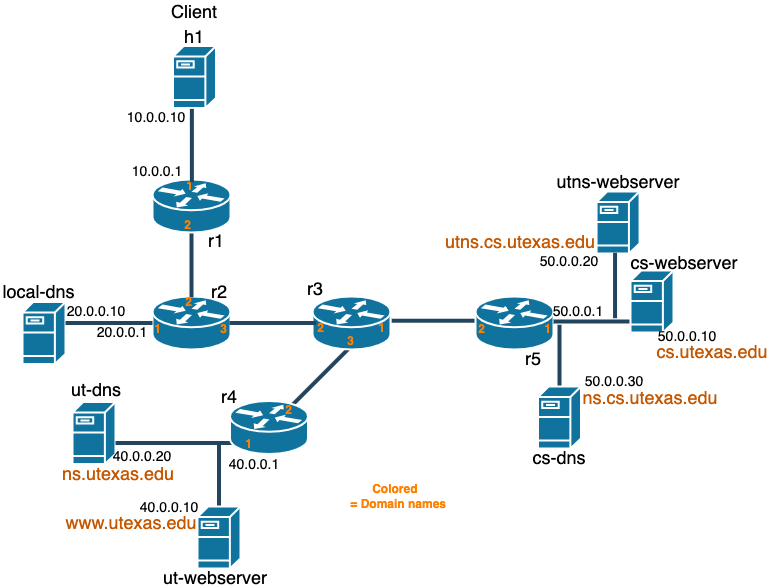
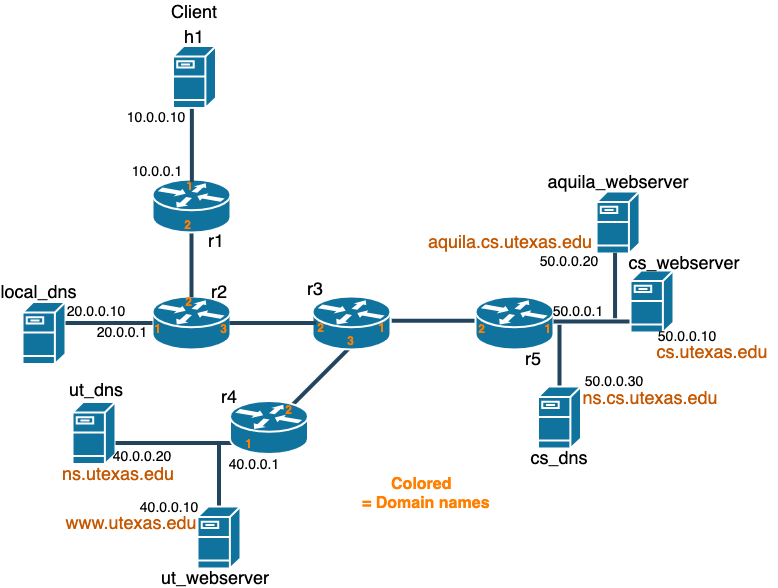
[A5] Update figures and instructions

diff --git a/_pages/5_dns.md b/_pages/5_dns.md
@@ -12,21 +12,22 @@ To get the skeleton code, create a **private** repository by clicking `Use this 
 #### Overview
 In this assignment, you will implement DNS servers that enable a client to access nodes with domains instead of raw IP addresses. Your task is to complete the implementation of DNS nameservers for the `utexas.edu` zone and `cs.utexas.edu` zone (Part 1) and a local DNS server that can handle the query iteratively (Part 2). We provide you with a DNS library that does tedious jobs such as message parsing on behalf of you. Refer to the Appendix for more details on the library. For simplicity, you can assume there are no incoming queries other than `A, AAAA, NS` queries.
 
-The overview for this assignment is depicted below.    
-![a5_overview]({{site.baseurl}}/assets/img/assignments/assignment5/A5_overview.png)   
 You will run this experiment on top of Kathara. The Kathara topology is depicted below. The Kathara lab is located in the `[a5_directory]/labs/dns`.    
 ![a5_topology]({{site.baseurl}}/assets/img/assignments/assignment5/A5_topology.png)   
 
 ### Part 1: Writing DNS servers
 Your task is to complete `ut-dns.c` and `cs-dns.c` in the `[a5_directory]/labs/dns/shared/src` directory. `ut-dns.c` and `cs-dns.c` are the nameservers for `utexas.edu` and `cs.utexas.edu`, respectively. The implementation of the two servers should be almost the same except for the DNS records they store. We recommend you implement `ut-dns.c` first, copy and paste it to `cs-dns.c`, and change it a bit. Note that they are **NOT** recursive nor iterative DNS servers, so their responses are only based on their own DNS records.
 
+The overview for this part of the assignment is depicted below. 
+![a5_p1]({{site.baseurl}}/assets/img/assignments/assignment5/A5_P1.png)   
+
 #### Specification
 You can find the step-by-step specifications in the starter codes as well.
 * The servers should receive a message on top of UDP. Note that a UDP server doesn't have to `listen()` and `accept()` since it is connectionless, unlike TCP (what we did in A1). Also, the UDP server should use `sendto()`/`recvfrom()` to set/get a client's address along with sending/receiving a message.
-* Initialize a server-wide context (e.g., DNS records) using TDNSInit(). The context will be used for future DNS-related operations such as searching for a DNS entry.
-* Create a zone using `TDNSCreateZone` and add entries to the server `TDNSAddRecord`. You should be able to infer the contents of entries from the comments in the source code and the topology figure.
+* Initialize a server-wide context (e.g., DNS records) using TDNSInit(). The context will be used for future DNS-related operations such as searching for a DNS record.
+* Create a zone using `TDNSCreateZone` and add records to the server `TDNSAddRecord`. You should be able to infer the contents of records from the comments in the source code and the topology figure.
 * Receive a message continuously and parse it using `TDNSParseMsg()`.
-* If the received message is a query for A, AAAA, or NS, find the corresponding entry using `TDNSFind()` and return the response. Ignore all the other messages.
+* If the received message is a query for A, AAAA, or NS, find the corresponding record using `TDNSFind()` and return the response. Ignore all the other messages.
 
 #### Test your implementation
 1. Compile your code with `$ make` in the lab's shared directory (`[a5_directory]/labs/dns/shared`). The compiled binary would be in the `[a5_directory]/labs/dns/shared/bin` directory.
@@ -43,25 +44,27 @@ For testing `cs-dns.c`,
 `$ dig @40.0.0.20 A www.utexas.edu`      
 `$ dig @40.0.0.20 A thisshouldfail.utexas.edu`     
 `$ dig @40.0.0.20 A cs.utexas.edu`     
-`$ dig @40.0.0.20 A utns.cs.utexas.edu`     
+`$ dig @40.0.0.20 A aquila.cs.utexas.edu`     
 * For testing `cs-dns.c`, run below on `h1`.   
 `$ dig @50.0.0.30 A cs.utexas.edu`     
-`$ dig @50.0.0.30 A utns.cs.utexas.edu`     
+`$ dig @50.0.0.30 A aquila.cs.utexas.edu`     
 `$ dig @40.0.0.20 A thisshouldfail.cs.utexas.edu`     
 
 ### Part 2: An Iterative Local DNS Server
-Your task is to complete `local-dns.c` in the `[a5_directory]/labs/dns/shared/src` directory. `local-dns.c` is a default nameserver for the on-campus network. Note that it is an iterative DNS server, so its response should be always an answer or error. If it receives a DNS record that indicates delegation (referral), it should resolve a query iteratively. 
+Your task is to complete `local-dns.c` in the `[a5_directory]/labs/dns/shared/src` directory. `local-dns.c` is a default nameserver for the on-campus network. Note that it is an iterative DNS server, so its response should be always an answer or error. If it receives a DNS record that indicates delegation (referral), it should resolve a query iteratively.
+The below figure is an example of an iterative query resolution that is possible in our setup.
+![a5_p2]({{site.baseurl}}/assets/img/assignments/assignment5/A5_P2.png)    
 
 #### Specification
 You can find the step-by-step specifications in the source code as well.
 * The servers should receive a message on top of UDP.
-* Initialize a server-wide context (e.g., DNS records) using TDNSInit(). The context will be used for future DNS-related operations such as searching for a DNS entry.
-* Create a zone using `TDNSCreateZone` and add entries to the server `TDNSAddRecord`. You should be able to infer the contents of entries from the comments in the source code and the topology figure.
+* Initialize a server-wide context (e.g., DNS records) using TDNSInit(). The context will be used for future DNS-related operations such as searching for a DNS record.
+* Create a zone using `TDNSCreateZone` and add records to the server `TDNSAddRecord`. You should be able to infer the contents of records from the comments in the source code and the topology figure.
 * Receive a message continuously and parse it using `TDNSParseMsg()`.
-* If the received message is a query for A, AAAA, or NS, find the corresponding entry using `TDNSFind()`. Ignore all the other messages.
-    1. If the entry is found and the entry indicates delegation, send an iterative query to the corresponding nameserver. Note that the server should store a per-query context using `putAddrQID()` and `putNSQID()` for future response handling.
-    2. If the entry is found and the entry doesn't indicate delegation, send a response back to the client.
-    3. If the entry is not found, send a response back to the client. (The library would set the error flag.)
+* If the received message is a query for A, AAAA, or NS, find the corresponding record using `TDNSFind()`. Ignore all the other messages.
+    1. If the record is found and the record indicates delegation, send an iterative query to the corresponding nameserver. Note that the server should store a per-query context using `putAddrQID()` and `putNSQID()` for future response handling.
+    2. If the record is found and the record doesn't indicate delegation, send a response back to the client.
+    3. If the record is not found, send a response back to the client. (The library would set the error flag.)
 * If the received message is a response
     1. and it is an authoritative response (i.e., final response), add the NS information to the response and send it to the original client. Delete a per-query context using `delAddrQID()` and `putNSQID()`. You can retrieve the NS and client address information for the response using `getNSbyQID()` and `getAddrbyQID()`. You can add the NS information to the response using `TDNSPutNStoMessage()`.  
     2. and it is a non-authoritative response (i.e., it indicates delegation), send an iterative query to the corresponding nameserver. You can extract the query from the response using `TDNSGetIterQuery()`. The server should update a per-query context using `putNSQID()`.
@@ -84,13 +87,13 @@ You can find the step-by-step specifications in the source code as well.
 `$ dig A www.utexas.edu`     
 `$ dig A abc.utexas.edu`     
 `$ dig A cs.utexas.edu`      
-`$ dig A utns.cs.utexas.edu`    
+`$ dig A aquila.cs.utexas.edu`    
 `$ dig A abc.utexas.edu`   
 
 4. Try to use domain names with `$ ping`.    
 The `-n` flag is necessary since the servers ignore a reverse query (PTR).   
 `$ ping -n www.utexas.edu`    
-`$ ping -n utns.cs.utexas.edu`    
+`$ ping -n aquila.cs.utexas.edu`    
 
 ### Submission
 Please submit your code (modified assignment4 repository) to the Canvas Assignments page in either `tar.gz` or `zip` format.  
@@ -114,9 +117,9 @@ enum TDNSType
 
 
 /* Server-wide context */
-/* Maintains DNS entries in a hierarchical manner */
+/* Maintains DNS records in a hierarchical manner */
 /* and per-query contexts for handling iterative queries */
-/* In the assignment, the server can contain only two kinds of entries. */
+/* In the assignment, the server can contain only two kinds of records. */
 /* One contains an IP address, and the other points to another nameserver */
 struct TDNSServerContext;
 
@@ -155,15 +158,15 @@ struct TDNSServerContext *TDNSInit(void);
 /* e.g., TDNSCreateZone(ctx, "google.com") */
 void TDNSCreateZone (struct TDNSServerContext *ctx, const char *zoneurl);
 
-/* Adds either an NS entry or A entry for the subdomain in the zone */
-/* A entry example*/
-/* e.g., TDNSAddEntry(ctx, "google.com", "www", "123.123.123.123", NULL) */
-/* NS entry example */
+/* Adds either an NS record or A record for the subdomain in the zone */
+/* A record example*/
+/* e.g., TDNSAddRecord(ctx, "google.com", "www", "123.123.123.123", NULL) */
+/* NS record example */
 /* Below will also implicitly create a maps.google.com zone */
-/* e.g., TDNSAddEntry(ctx, "google.com", "maps", NULL, "ns.maps.google.com")*/
+/* e.g., TDNSAddRecord(ctx, "google.com", "maps", NULL, "ns.maps.google.com")*/
 /* Then you can add an IP for ns.maps.google.com like below */
-/* e.g., TDNSAddEntry(ctx, "maps.google.com", "ns", "111.111.111.111", NULL)*/
-void TDNSAddEntry (struct TDNSServerContext *ctx, const char *zoneurl, const char *subdomain, const char *IPv4, const char* NS);
+/* e.g., TDNSAddRecord(ctx, "maps.google.com", "ns", "111.111.111.111", NULL)*/
+void TDNSAddRecord (struct TDNSServerContext *ctx, const char *zoneurl, const char *subdomain, const char *IPv4, const char* NS);
 
 /* Parses a DNS message and stores the result in `parsed` */
 /* Returns 0 if the message is a query, 1 if it's a response */ */
@@ -172,10 +175,10 @@ void TDNSAddEntry (struct TDNSServerContext *ctx, const char *zoneurl, const cha
 /* the IP address and domain name for the referred nameserver */
 uint8_t TDNSParseMsg (const char *message, uint64_t size, struct TDNSParseResult *parsed);
 
-/* Finds a DNS entry for the query represented by `parsed` and stores the result in `result`*/
-/* Returns 0 if it fails to find a corresponding entry */
-/* Returns 1 if it finds a corresponding entry */
-/* If the entry indicates delegation, result->delegate_ip will store */
+/* Finds a DNS record for the query represented by `parsed` and stores the result in `result`*/
+/* Returns 0 if it fails to find a corresponding record */
+/* Returns 1 if it finds a corresponding record */
+/* If the record indicates delegation, result->delegate_ip will store */
 /* the IP address to which it delegates the query */
 uint8_t TDNSFind (struct TDNSServerContext* context, struct TDNSParseResult *parsed, struct TDNSFindResult *result);
 
@@ -202,8 +205,6 @@ void putNSQID(struct TDNSServerContext* context, uint16_t qid, const char *nsIP,
 void getNSbyQID(struct TDNSServerContext* context, uint16_t qid, const char **nsIP, const char **nsDomain);
 void delNSQID(struct TDNSServerContext* context, uint16_t qid);
 
-/* unused */
-void TDNSAddPTREntry (struct TDNSServerContext *ctx, const char *zone, const char *IP, const char *domain);
 ```
 
 
